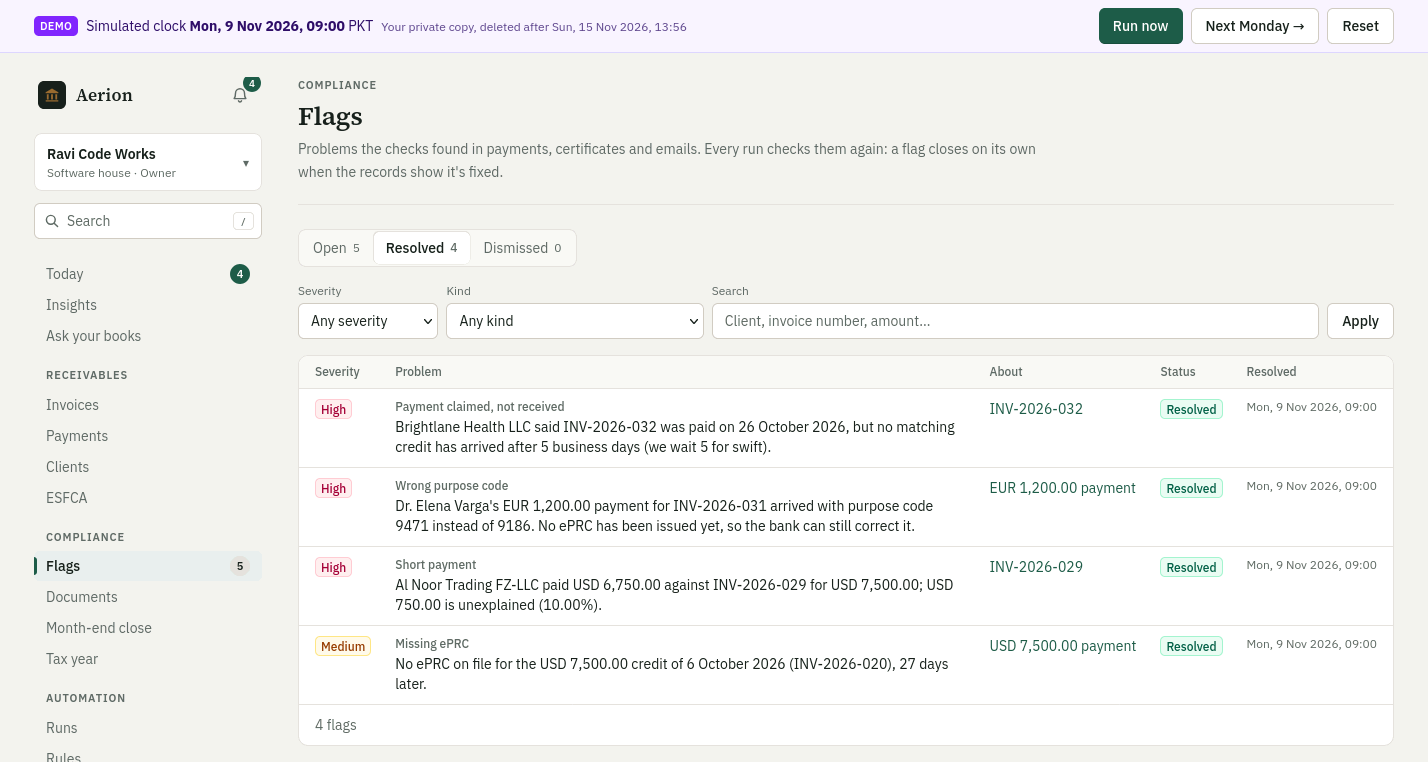
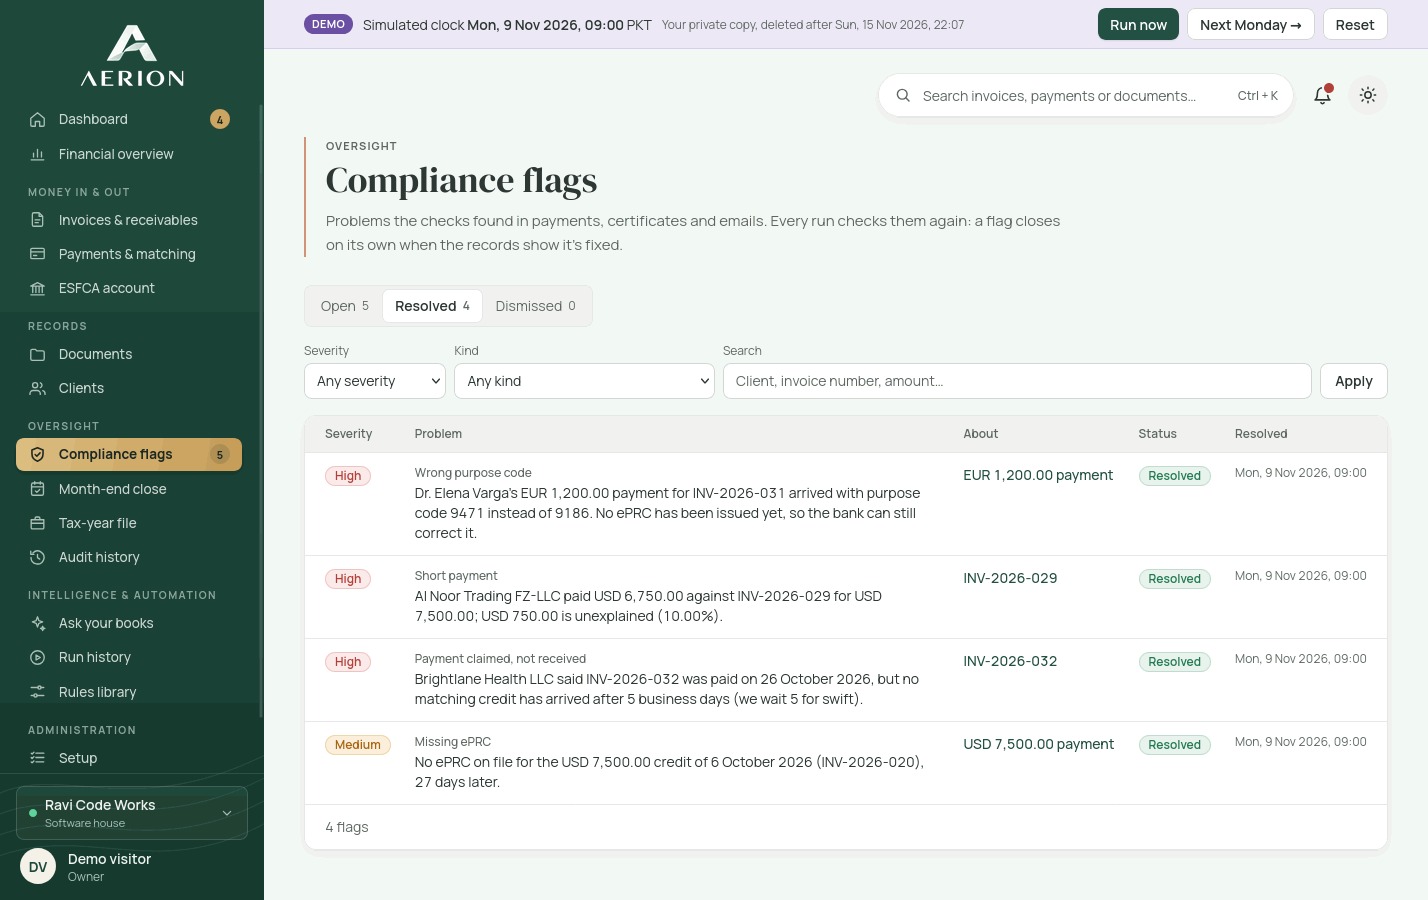
README: screenshots of the redesigned app
New shots of the live demo after the redesign (the Dashboard, a run, the
short-payment draft, Ask your books and the resolved flags), with captions
updated to what they show.

diff --git a/README.md b/README.md
@@ -86,18 +86,18 @@ These are screenshots of the live demo, taken on 2026-11-08. The software house,
 ### Monday morning: what needs a person
 
 <p align="center">
-  <img src="assets/screen-today.png" alt="The Today page of the demo software house, Ravi Code Works, after the first Monday run on the simulated clock (Mon 2 Nov 2026, 09:00). Tiles show 9 things that need a person, PKR 2.57M owed, PKR 816K overdue and a 99.20% banking-channel share. Six drafted emails wait for approval, each with its risk and how many of its numbers were checked, with Review and Approve and send buttons. Below them are three tasks for a person. On the right: what's coming up, the overdue invoice and the last run's summary." width="100%">
+  <img src="assets/screen-today.png" alt="The Dashboard of the demo software house, Ravi Code Works, after the first Monday run on the simulated clock (Mon 2 Nov 2026, 09:00). On the left, the dark green sidebar with the Aerion logo. Four tiles: PKR 2.57M owed, PKR 15.9M received in the last 30 days (58% more than the 30 days before), PKR 816K overdue, and 9 things that need a person. The Action Center lists the six drafted emails and three tasks by priority, each with how many of its numbers were checked and one next step, Review or Open. Beside it, invoiced against received for the last six months. Below: recent activity from the records, upcoming deadlines, and insights worked out from the records." width="100%">
 </p>
 
-After its first Monday run (the demo clock says Mon 2 Nov 2026, 09:00), nine things need a person: six emails to approve and three tasks, such as calling a client to confirm the bank details. Each email shows its risk and how many of its numbers were checked against the records. Nine flags are open, four of them high.
+After its first Monday run (the demo clock says Mon 2 Nov 2026, 09:00), nine things need a person: six emails to approve and three tasks, such as calling a client to confirm the bank details. The Action Center lists them by priority, high first, each with one next step and how many of its numbers were checked against the records. The tiles and the chart come from the same books, and each insight links to the record behind it. Nine flags are open, four of them high.
 
 ### Every step on the record
 
 <p align="center">
-  <img src="assets/screen-run.png" alt="The page for that run, which took 15.4 seconds. Plan, Pull and Read are shown with their times: Pull brought in nine emails and a Payoneer export, and Read lists every document and email with what it was read as, such as a credit advice, a remittance advice or a request to change bank details. On the right: the run's report, its counts and the model calls to Vultr Serverless Inference with their tokens and milliseconds." width="100%">
+  <img src="assets/screen-run.png" alt="The page for that run, which took 20.2 seconds. Plan, Pull and Read are shown with their times: Pull brought in nine emails and a Payoneer export, and Read lists every document and email with what it was read as, such as a credit advice, a remittance advice or a request to change bank details. On the right: the run's report, its counts and the model calls to Vultr Serverless Inference with their tokens and milliseconds." width="100%">
 </p>
 
-Each run has its own page: what every step did and how long it took, and every model call with its tokens and time. This run took 15.4 seconds, 14.5 of them in the Read step, where Serverless Inference read the documents and emails in 25 model calls. Every other step took milliseconds.
+Each run has its own page: what every step did and how long it took, and every model call with its tokens and time. This run took 20.2 seconds, 19.5 of them in the Read step, where Serverless Inference read the documents and emails in 26 model calls. Every other step took milliseconds.
 
 ### Every number traced
 
@@ -110,7 +110,7 @@ In a draft, every number is highlighted and traced to a record: the value date, 
 ### Next Monday, flags close on their own
 
 <p align="center">
-  <img src="assets/screen-flags.png" alt="The Flags page on the next Monday (Mon 9 Nov 2026, 09:00), on the Resolved tab: 5 open, 4 resolved, 0 dismissed. The four resolved flags are Brightlane Health's claim that INV-2026-032 was paid, the wrong purpose code on Dr. Elena Varga's EUR 1,200.00 payment, Al Noor Trading's USD 750.00 short payment on INV-2026-029, and a missing ePRC for a USD 7,500.00 credit. All four were resolved at 09:00 that day." width="100%">
+  <img src="assets/screen-flags.png" alt="The Compliance flags page on the next Monday (Mon 9 Nov 2026, 09:00), on the Resolved tab: 5 open, 4 resolved, 0 dismissed. The four resolved flags are Brightlane Health's claim that INV-2026-032 was paid, the wrong purpose code on Dr. Elena Varga's EUR 1,200.00 payment, Al Noor Trading's USD 750.00 short payment on INV-2026-029, and a missing ePRC for a USD 7,500.00 credit. All four were resolved at 09:00 that day." width="100%">
 </p>
 
 Once the emails have gone out, **Next Monday →** lets that week's replies arrive and runs again. The rest of Al Noor's payment comes in, the bank corrects the purpose code, Brightlane's money lands and the missing ePRC arrives, so four flags close on their own. Five stay open: the lookalike-domain warning, with a task for a person to call the client, and four medium flags. Three of the five are already being handled.
